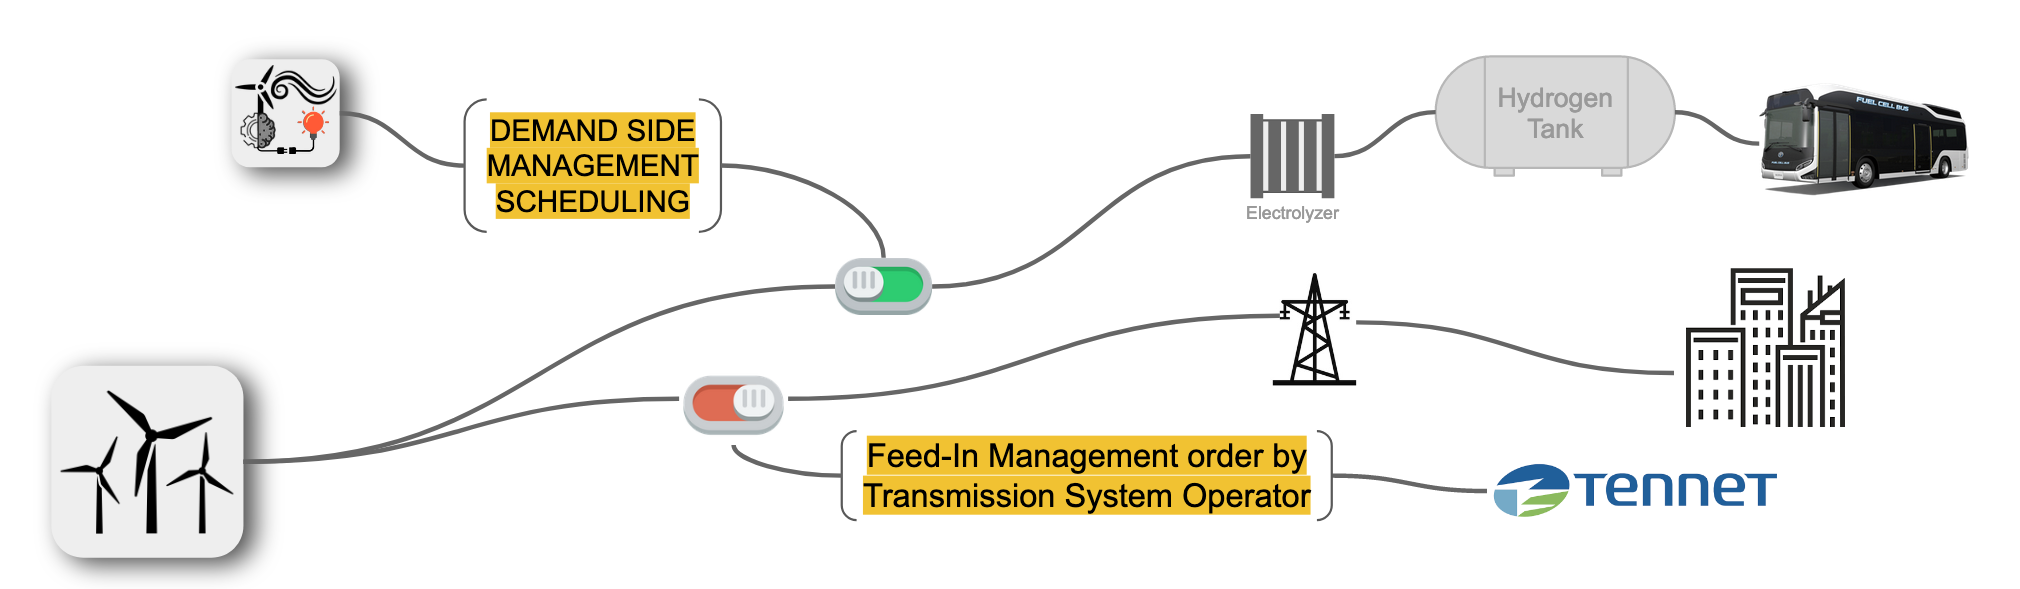
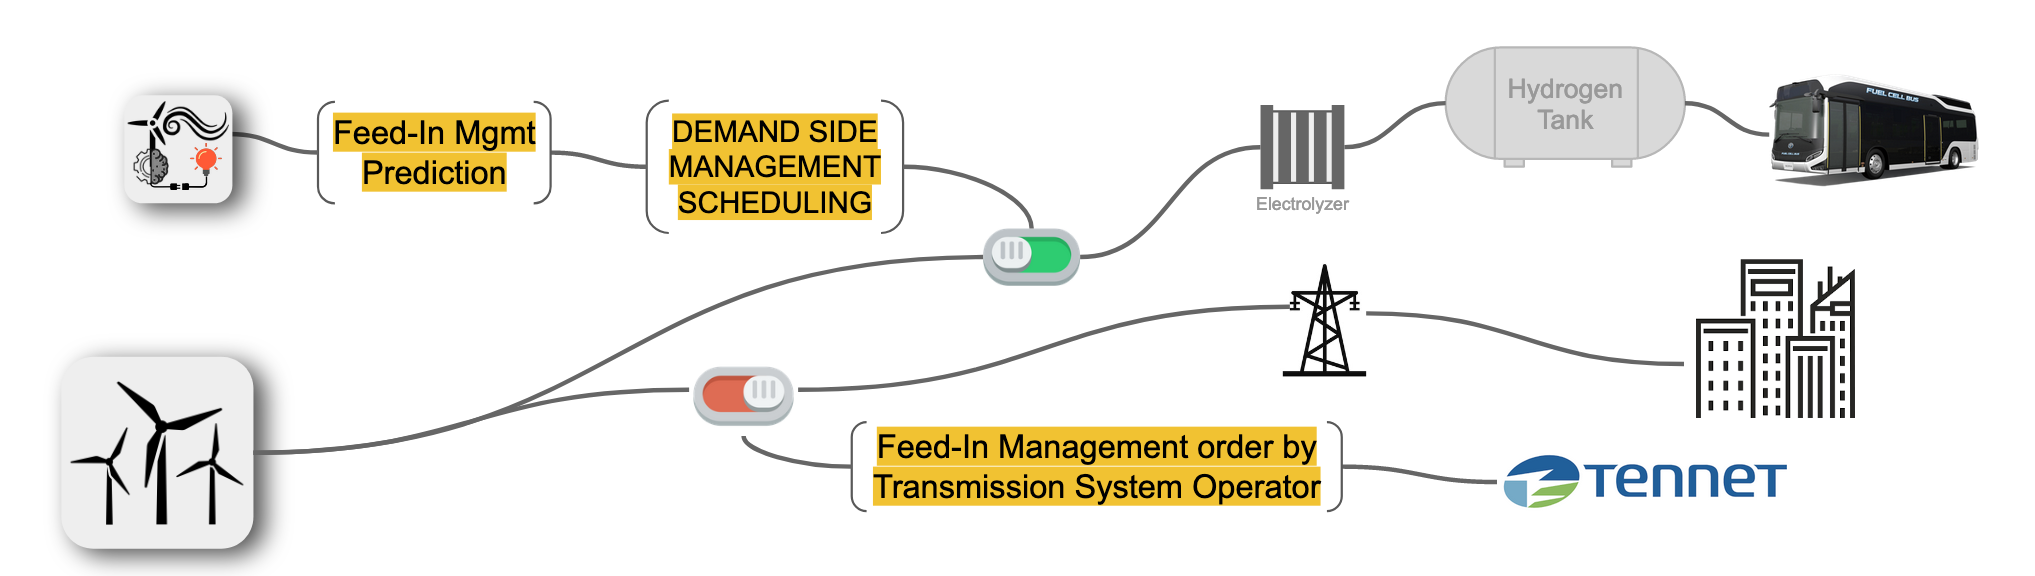
edit of color iteration to be conform with plotly

diff --git a/README.md b/README.md
@@ -54,9 +54,9 @@ A detailed view for the same features below.
 
 ##  Use Case overview
 
-The developed model can potentially be used as part of a Demand Side Managment scheduling software. The following visualisation describes the usecase for schedualed hydrogen production. 
+The developed model can potentially be used as part of a Demand Side Managment scheduling software. The following visualisation describes the usecase for schedualed hydrogen production. The hydrogen can then be used to power a fuel cell bus. 
 
-<img src="./figures/dsm_vis.png" alt="dsm_vis" style="zoom:80%;" />
+<img src="./figures/overview_DMS_FIM.png" alt="dsm_vis" style="zoom:80%;" />
 
 
 
